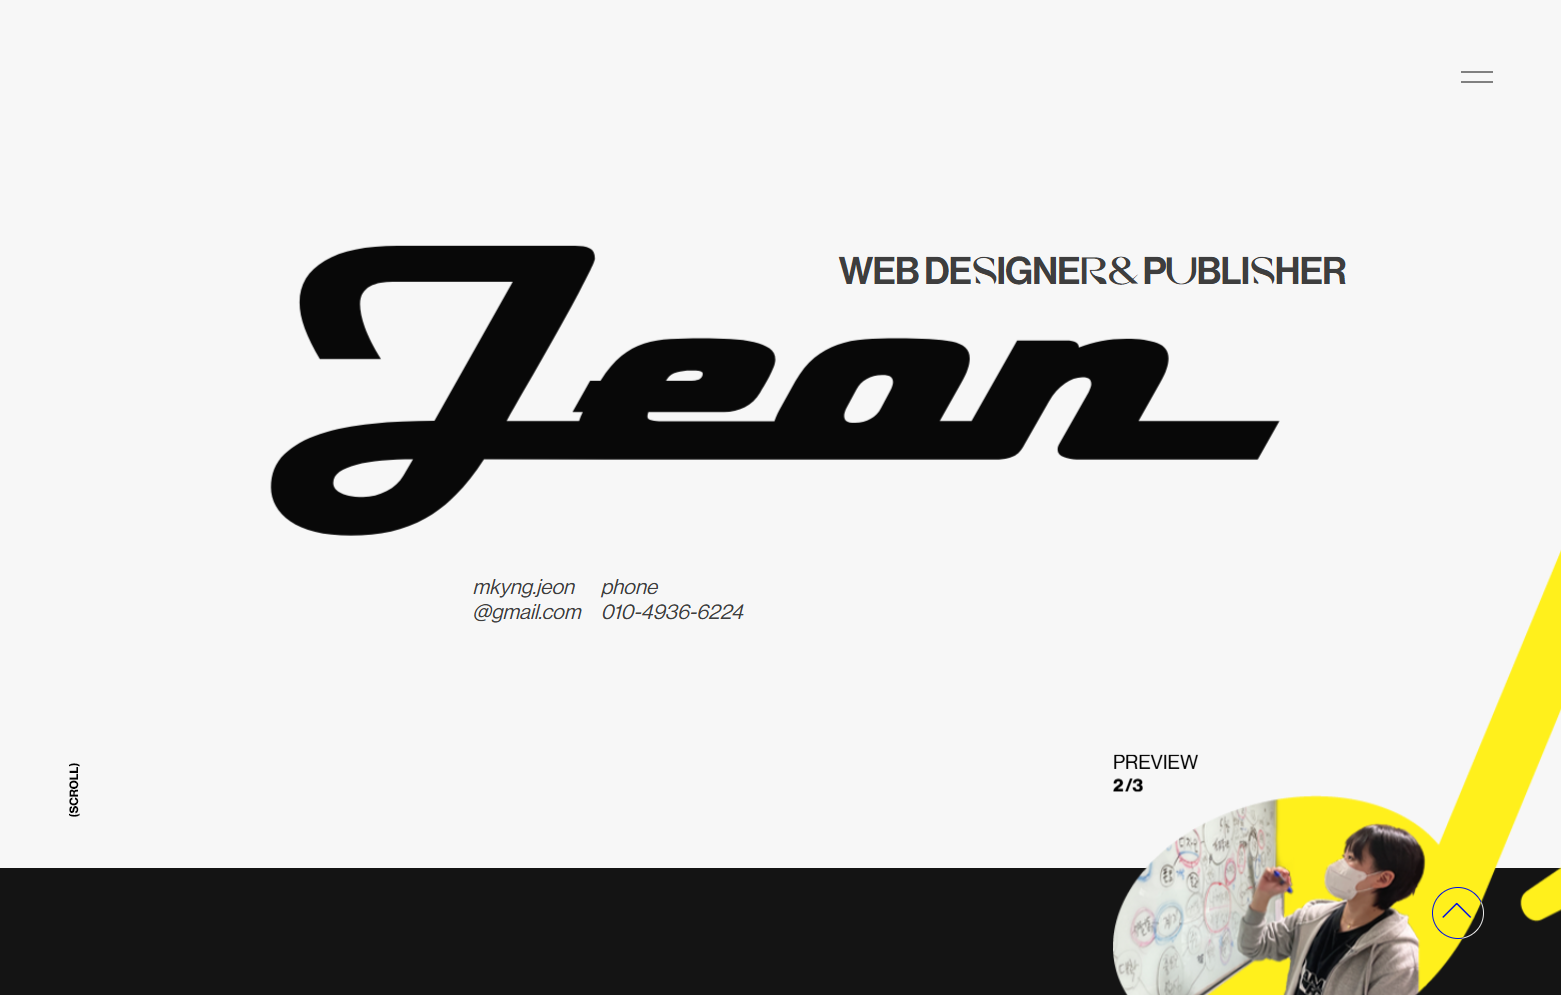
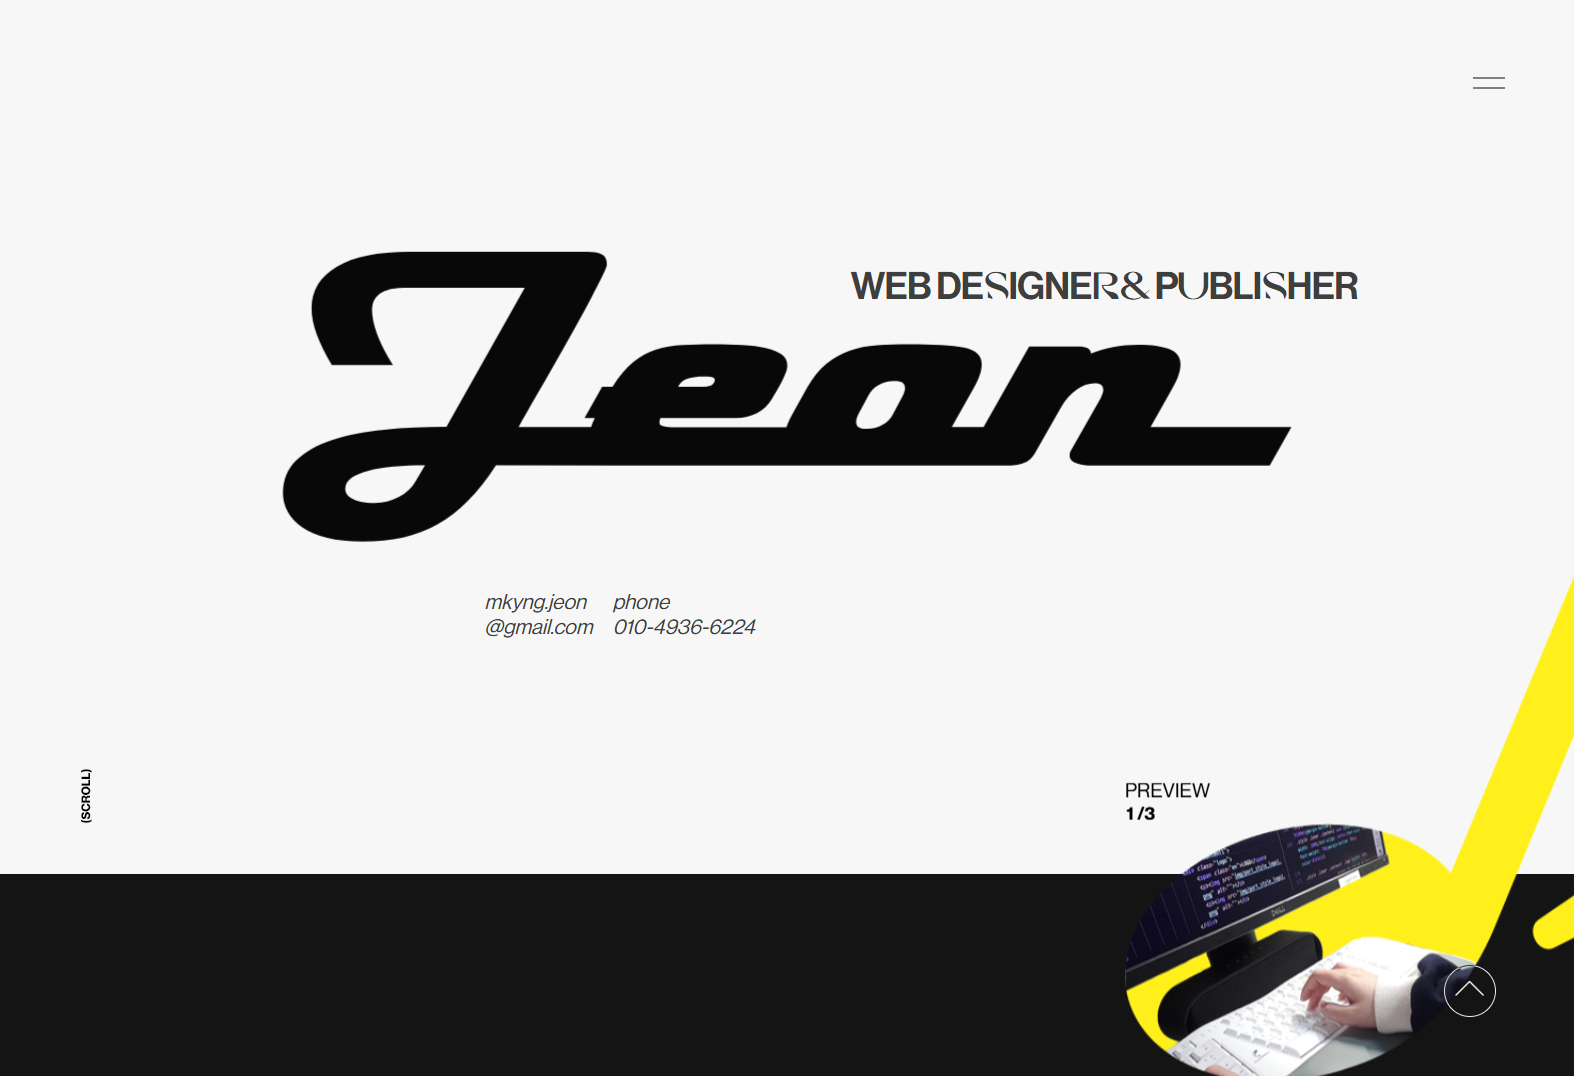
feat: about section
about section 추가, 스타일링, toy section 이미지들 수정

Changed region(s): [[0.0, 0.5296, 1.0, 1.0], [0.1537, 0.2181, 0.861, 0.5608], [0.3075, 0.5296, 0.492, 0.6231]]

diff --git a/src/components/About/About.tsx b/src/components/About/About.tsx
@@ -1,0 +1,84 @@
+import {
+  AboutWrapper,
+  InfoBox,
+  Name,
+  ButtonGroup,
+  GrayButton,
+  Row,
+  Label,
+  Value,
+  DateText,
+  SkillList,
+  SkillItem,
+  PhotoWrapper,
+  Circle,
+  Photo,
+} from "./About.styles";
+
+import {
+  FaReact,
+  FaGitAlt,
+  FaSun,
+  FaFigma,
+} from "react-icons/fa";
+import {
+  SiTypescript,
+  SiJavascript,
+  SiCss3,
+  SiHtml5,
+  SiVercel,
+} from "react-icons/si";
+
+export default function About() {
+  return (
+    <AboutWrapper>
+      <InfoBox>
+        <Name>전미경 MIKYEONG JEON</Name>
+        <ButtonGroup>
+          <GrayButton>이력서</GrayButton>
+          <GrayButton>github</GrayButton>
+          <GrayButton>블로그</GrayButton>
+        </ButtonGroup>
+
+        <Row>
+          <Label>졸업</Label>
+          <Value>숙명여자대학교 영문학사</Value>
+          <DateText></DateText>
+        </Row>
+        <Row>
+          <Label>수료</Label>
+          <Value>
+            이젠아카데미 프론트엔드 개발자
+          </Value>
+          <DateText>2022.11 - 2023.04</DateText>
+        </Row>
+        <Row>
+          <Label>근무</Label>
+          <Value>
+            (주)널리소프트 개발팀 사원
+          </Value>
+          <DateText>2023.04 - 현재</DateText>
+        </Row>
+        <Row>
+          <Label>기술</Label>
+          <SkillList>
+            <SkillItem><FaReact /></SkillItem>
+            <SkillItem><SiTypescript /></SkillItem>
+            <SkillItem><SiJavascript /></SkillItem>
+            <SkillItem><SiCss3 /></SkillItem>
+            <SkillItem><SiHtml5 /></SkillItem>
+            <SkillItem><FaGitAlt /></SkillItem>
+            <SkillItem><FaSun /></SkillItem>
+            <SkillItem><FaFigma /></SkillItem>
+            <SkillItem><SiVercel /></SkillItem>
+          </SkillList>
+        </Row>
+      </InfoBox>
+
+      <PhotoWrapper>
+        <Circle />
+        <Photo src="/assets/home/about/profile.png" alt="전미경 프로필" />
+      </PhotoWrapper>
+    </AboutWrapper>
+  );
+}

diff --git a/src/components/About/About.styles.ts b/src/components/About/About.styles.ts
@@ -1,0 +1,112 @@
+import styled from "styled-components";
+
+export const AboutWrapper = styled.section`
+  display: flex;
+  justify-content: space-between;
+  align-items: flex-start;
+  padding: 60px 0;
+  gap: 50px;
+  position: relative;
+
+  @media (max-width: 768px) {
+    flex-direction: column;
+  }
+`;
+
+export const InfoBox = styled.div`
+  flex: 1;
+`;
+
+export const Name = styled.h2`
+  font-size: 20px;
+  font-weight: bold;
+  margin-bottom: 10px;
+`;
+
+export const ButtonGroup = styled.div`
+  display: flex;
+  gap: 10px;
+  margin-bottom: 20px;
+`;
+
+export const GrayButton = styled.button`
+  padding: 5px 10px;
+  background-color: #eee;
+  border: none;
+  border-radius: 12px;
+  font-size: 12px;
+  font-weight: 500;
+  cursor: pointer;
+`;
+
+export const Row = styled.div`
+  display: flex;
+  align-items: flex-start;
+  margin-bottom: 14px;
+  gap: 8px;
+`;
+
+export const Label = styled.div`
+  width: 60px;
+  font-weight: 600;
+  flex-shrink: 0;
+`;
+
+export const Value = styled.div`
+  color: #333;
+  font-weight: 400;
+   width: 240px;
+`;
+
+export const DateText = styled.div`
+  font-size: 12px;
+  color: #999;
+  min-width: 90px;
+`;
+
+export const SkillList = styled.div`
+  display: flex;
+  flex-wrap: wrap;
+  gap: 10px;
+`;
+
+export const SkillItem = styled.div`
+  width: 32px;
+  height: 32px;
+  background-color: #eee;
+  border-radius: 6px;
+  display: flex;
+  align-items: center;
+  justify-content: center;
+
+  svg {
+    width: 18px;
+    height: 18px;
+  }
+`;
+
+export const PhotoWrapper = styled.div`
+  width: 180px;
+  height: 280px;
+  position: relative;
+  flex-shrink: 0;
+`;
+
+export const Circle = styled.div`
+  width: 160px;
+  height: 160px;
+  background-color: #aaffdd;
+  border-radius: 50%;
+  position: absolute;
+  top: -40px;
+  left: -40px;
+  z-index: 1;
+`;
+
+export const Photo = styled.img`
+  width: 100%;
+  height: 100%;
+  object-fit: contain;
+  position: relative;
+  z-index: 2;
+`;

diff --git a/src/pages/Home.tsx b/src/pages/Home.tsx
@@ -3,6 +3,7 @@ import styled from 'styled-components';
 import HightlightCard from '@/components/WorkSection/HighlightCard';
 import ToyCard from '@/components/ToySection/ToyCard';
 import { useOutletContext } from 'react-router-dom';
+import About from '@/components/About/About';
 
 const SectionTitle = styled.div`
   font-family: 'Sofachrome Rg', sans-serif;
@@ -25,7 +26,7 @@ export default function Home(){
       {/* about */}
       <section className='Homesection'>
         <div className="sectionInner">
-          
+          <About />
         </div>
       </section>
 

diff --git a/src/index.css b/src/index.css
@@ -95,6 +95,6 @@ section.Homesection.toy{
 }
 
 section .sectionInner {
-  width:1100px;
+  width:800px;
   margin:0 auto;
 }
